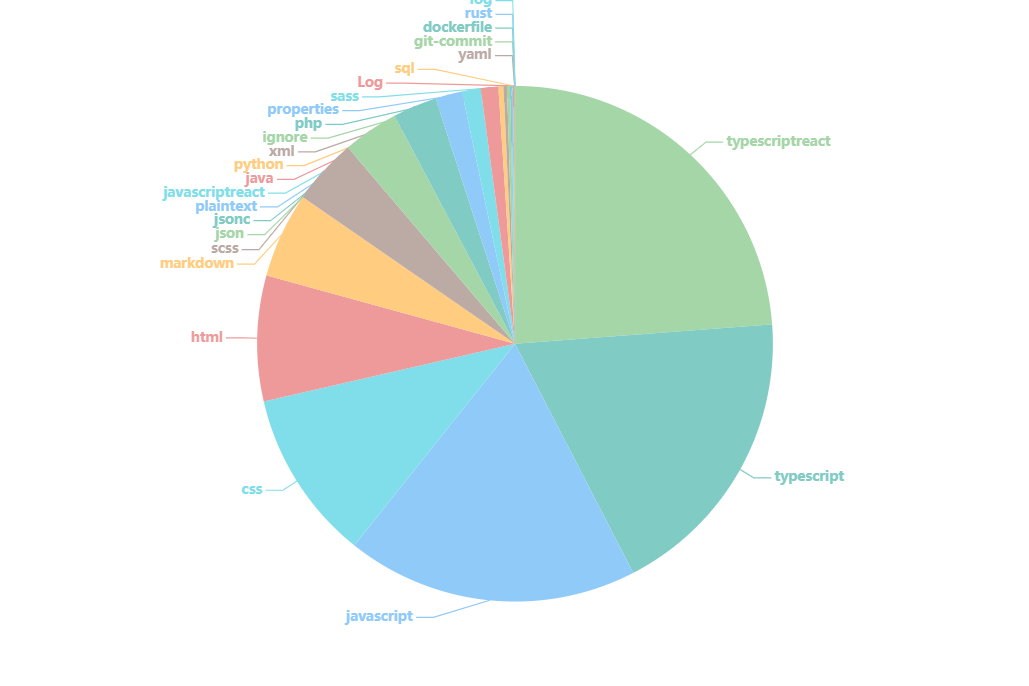
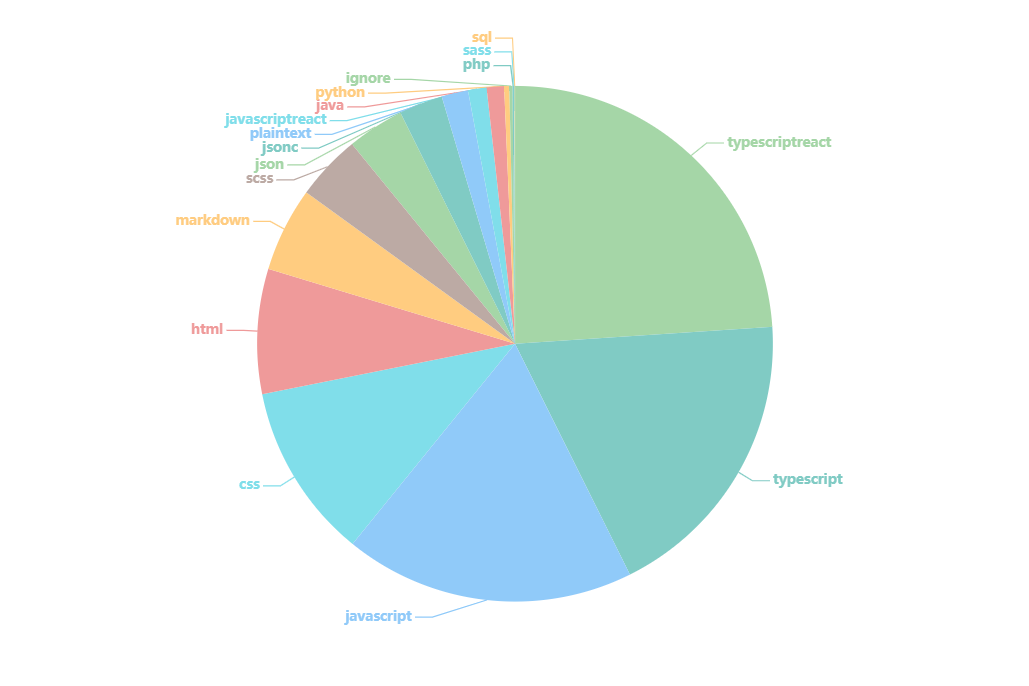
v2.4.0

diff --git a/src/components/Skills/Skills.tsx b/src/components/Skills/Skills.tsx
@@ -2,6 +2,7 @@ import React, { useState, useEffect } from 'react';
 
 import { IThemeProps, skills } from '../../material';
 import { options, showModal } from './modal-mat';
+import Python from './assets/python.png';
 import './skills.css';
 
 const Skills: React.FC<IThemeProps> = props => {
@@ -80,6 +81,7 @@ const Skills: React.FC<IThemeProps> = props => {
                   <svg id="java" onClick={() => logoClick(format(options.java.display()))} className={`${props.theme}Skills-logo`} width={logoSize} height={logoSize} xmlns="http://www.w3.org/2000/svg" viewBox="6.527 4.399 290.829 540.906"><path d="M285.104 430.945h-2.037v-1.14h5.486v1.14h-2.025v5.688h-1.424v-5.688zm10.942.297h-.032l-2.02 5.393h-.924l-2.006-5.393h-.024v5.393h-1.343v-6.828h1.976l1.86 4.835 1.854-4.835h1.969v6.828h-1.311l.001-5.393z" fill="#e76f00" /><path d="M102.681 291.324s-14.178 8.245 10.09 11.035c29.4 3.354 44.426 2.873 76.825-3.259 0 0 8.518 5.341 20.414 9.967-72.63 31.128-164.376-1.803-107.329-17.743M93.806 250.704s-15.902 11.771 8.384 14.283c31.406 3.24 56.208 3.505 99.125-4.759 0 0 5.937 6.018 15.271 9.309-87.815 25.678-185.624 2.025-122.78-18.833" fill="#5382a1" /><path d="M168.625 181.799c17.896 20.604-4.701 39.146-4.701 39.146s45.439-23.458 24.571-52.833c-19.491-27.395-34.438-41.005 46.479-87.934.001-.001-127.013 31.721-66.349 101.621" fill="#e76f00" /><path d="M264.684 321.369s10.492 8.646-11.555 15.333c-41.923 12.7-174.488 16.535-211.314.507-13.238-5.76 11.587-13.752 19.396-15.429 8.144-1.766 12.798-1.437 12.798-1.437-14.722-10.371-95.157 20.363-40.857 29.166 148.084 24.015 269.944-10.814 231.532-28.14M109.499 208.617s-67.431 16.016-23.879 21.832c18.389 2.462 55.047 1.905 89.192-.956 27.906-2.354 55.928-7.358 55.928-7.358s-9.84 4.214-16.959 9.074c-68.475 18.01-200.756 9.631-162.674-8.79 32.206-15.568 58.392-13.802 58.392-13.802M230.462 276.231c69.608-36.171 37.425-70.932 14.96-66.248-5.506 1.146-7.961 2.139-7.961 2.139s2.045-3.202 5.947-4.588c44.441-15.624 78.619 46.081-14.346 70.521 0 0 1.079-.962 1.4-1.824" fill="#5382a1" /><path d="M188.495 4.399s38.55 38.562-36.563 97.862c-60.233 47.567-13.735 74.689-.025 105.678-35.158-31.723-60.96-59.647-43.65-85.637 25.406-38.151 95.792-56.648 80.238-117.903" fill="#e76f00" /><path d="M116.339 374.246c66.815 4.277 169.417-2.373 171.846-33.987 0 0-4.67 11.984-55.219 21.503-57.027 10.731-127.364 9.479-169.081 2.601.002-.002 8.541 7.067 52.454 9.883" fill="#5382a1" /><path d="M105.389 495.049c-6.303 5.467-12.96 8.536-18.934 8.536-8.527 0-13.134-5.113-13.134-13.314 0-8.871 4.937-15.357 24.739-15.357h7.328l.001 20.135m17.392 19.623V453.93c0-15.518-8.85-25.756-30.188-25.756-12.457 0-23.369 3.076-32.238 6.999l2.56 10.752c6.983-2.563 16.022-4.949 24.894-4.949 12.292 0 17.58 4.949 17.58 15.181v7.678h-6.135c-29.865 0-43.337 11.593-43.337 28.993 0 15.018 8.878 23.554 25.594 23.554 10.745 0 18.766-4.437 26.264-10.929l1.361 9.221 13.645-.002zM180.824 514.672h-21.691l-26.106-84.96h18.944l16.198 52.199 3.601 15.699c8.195-22.698 13.992-45.726 16.891-67.898h18.427c-4.938 27.976-13.822 58.684-26.264 84.96M264.038 495.049c-6.315 5.467-12.983 8.536-18.958 8.536-8.512 0-13.131-5.113-13.131-13.314 0-8.871 4.947-15.357 24.748-15.357h7.341v20.135m17.39 19.623V453.93c0-15.518-8.871-25.756-30.186-25.756-12.465 0-23.381 3.076-32.246 6.999l2.557 10.752c6.985-2.563 16.041-4.949 24.906-4.949 12.283 0 17.579 4.949 17.579 15.181v7.678h-6.146c-29.873 0-43.34 11.593-43.34 28.993 0 15.018 8.871 23.554 25.584 23.554 10.752 0 18.77-4.437 26.28-10.929l1.366 9.221 13.646-.002zM36.847 529.099c-4.958 7.239-12.966 12.966-21.733 16.206L6.527 535.2c6.673-3.424 12.396-8.954 15.055-14.104 2.3-4.581 3.252-10.485 3.252-24.604v-96.995h18.478v95.666c-.001 18.875-1.51 26.5-6.465 33.936" fill="#e76f00" /></svg>
                   <svg id="nodejs" onClick={() => logoClick(format(options.nodejs.display()))} className={`${props.theme}Skills-logo`} width={logoSize} height={logoSize} viewBox="0 0 256 282" xmlns="http://www.w3.org/2000/svg" preserveAspectRatio="xMinYMin meet"><g fill="#8CC84B"><path d="M116.504 3.58c6.962-3.985 16.03-4.003 22.986 0 34.995 19.774 70.001 39.517 104.99 59.303 6.581 3.707 10.983 11.031 10.916 18.614v118.968c.049 7.897-4.788 15.396-11.731 19.019-34.88 19.665-69.742 39.354-104.616 59.019-7.106 4.063-16.356 3.75-23.24-.646-10.457-6.062-20.932-12.094-31.39-18.15-2.137-1.274-4.546-2.288-6.055-4.36 1.334-1.798 3.719-2.022 5.657-2.807 4.365-1.388 8.374-3.616 12.384-5.778 1.014-.694 2.252-.428 3.224.193 8.942 5.127 17.805 10.403 26.777 15.481 1.914 1.105 3.852-.362 5.488-1.274 34.228-19.345 68.498-38.617 102.72-57.968 1.268-.61 1.969-1.956 1.866-3.345.024-39.245.006-78.497.012-117.742.145-1.576-.767-3.025-2.192-3.67-34.759-19.575-69.5-39.18-104.253-58.76a3.621 3.621 0 0 0-4.094-.006C91.2 39.257 56.465 58.88 21.712 78.454c-1.42.646-2.373 2.071-2.204 3.653.006 39.245 0 78.497 0 117.748a3.329 3.329 0 0 0 1.89 3.303c9.274 5.259 18.56 10.481 27.84 15.722 5.228 2.814 11.647 4.486 17.407 2.33 5.083-1.823 8.646-7.01 8.549-12.407.048-39.016-.024-78.038.036-117.048-.127-1.732 1.516-3.163 3.2-3 4.456-.03 8.918-.06 13.374.012 1.86-.042 3.14 1.823 2.91 3.568-.018 39.263.048 78.527-.03 117.79.012 10.464-4.287 21.85-13.966 26.97-11.924 6.177-26.662 4.867-38.442-1.056-10.198-5.09-19.93-11.097-29.947-16.55C5.368 215.886.555 208.357.604 200.466V81.497c-.073-7.74 4.504-15.197 11.29-18.85C46.768 42.966 81.636 23.27 116.504 3.58z" /><path d="M146.928 85.99c15.21-.979 31.493-.58 45.18 6.913 10.597 5.742 16.472 17.793 16.659 29.566-.296 1.588-1.956 2.464-3.472 2.355-4.413-.006-8.827.06-13.24-.03-1.872.072-2.96-1.654-3.195-3.309-1.268-5.633-4.34-11.212-9.642-13.929-8.139-4.075-17.576-3.87-26.451-3.785-6.479.344-13.446.905-18.935 4.715-4.214 2.886-5.494 8.712-3.99 13.404 1.418 3.369 5.307 4.456 8.489 5.458 18.33 4.794 37.754 4.317 55.734 10.626 7.444 2.572 14.726 7.572 17.274 15.366 3.333 10.446 1.872 22.932-5.56 31.318-6.027 6.901-14.805 10.657-23.56 12.697-11.647 2.597-23.734 2.663-35.562 1.51-11.122-1.268-22.696-4.19-31.282-11.768-7.342-6.375-10.928-16.308-10.572-25.895.085-1.619 1.697-2.748 3.248-2.615 4.444-.036 8.888-.048 13.332.006 1.775-.127 3.091 1.407 3.182 3.08.82 5.367 2.837 11 7.517 14.182 9.032 5.827 20.365 5.428 30.707 5.591 8.568-.38 18.186-.495 25.178-6.158 3.689-3.23 4.782-8.634 3.785-13.283-1.08-3.925-5.186-5.754-8.712-6.95-18.095-5.724-37.736-3.647-55.656-10.12-7.275-2.571-14.31-7.432-17.105-14.906-3.9-10.578-2.113-23.662 6.098-31.765 8.006-8.06 19.563-11.164 30.551-12.275z" /></g></svg>
                   <svg id="deno" onClick={() => logoClick(format(options.deno.display()))} className={`${props.theme}Skills-logo`} width={logoSize} height={logoSize} viewBox="-.625 -.091 814.4 813.9" xmlns="http://www.w3.org/2000/svg"><g fill="#222"><path d="m374.575.209c-1.9.2-8 .9-13.5 1.4-78.2 8.2-155.2 41.3-218 93.9-11.6 9.6-38 36-47.6 47.6-52 62.1-82.4 131.8-93.6 214.3-2.5 18.3-2.5 80.1 0 98.4 11.2 82.5 41.6 152.2 93.6 214.3 9.6 11.6 36 38 47.6 47.6 62.1 52 131.8 82.4 214.3 93.6 18.3 2.5 80.1 2.5 98.4 0 82.5-11.2 152.2-41.6 214.3-93.6 11.6-9.6 38-36 47.6-47.6 52-62.1 82.4-131.8 93.6-214.3 2.5-18.3 2.5-80.1 0-98.4-11.2-82.5-41.6-152.2-93.6-214.3-9.6-11.6-36-38-47.6-47.6-61.9-51.8-132.3-82.6-213.7-93.5-8.8-1.2-21.6-1.7-45.3-1.9-18.1-.2-34.6-.1-36.5.1zm5 43.2c0 11.7.8 37.1 1.9 61.2.6 11.8 1.3 28.7 1.6 37.5 1.1 31.2 4.4 113.1 4.9 120.4l.5 7.3-4.5-.5c-2.5-.2-4.8-.8-5.2-1.1-.3-.4-1-7.3-1.4-15.4-1.8-35.6-7.7-173.7-8.3-193.9l-.6-22.2 2.8-.4c1.5-.2 4-.5 5.6-.6l2.7-.1zm95.7-2.4c.1.1.4 30.3.7 67.1.4 36.9.9 70 1.2 73.6.3 3.7.2 6.9-.3 7.1-.4.3-2.9.3-5.4 0l-4.6-.4-.7-29.1c-.4-16.1-.9-33.9-1.1-39.7-.8-17.7-1.5-77.8-.9-79.3.4-1.1 1.5-1.2 5.7-.5 2.9.6 5.3 1.1 5.4 1.2zm-231.3 33.5c.6.9 5.3 56 11.1 128.1 1.9 24.5 3.8 46.9 4.1 49.7.5 5.1.4 5.3-2.8 7.3-1.8 1.1-3.6 2-4 2-.3 0-.9-2.6-1.2-5.8-1.4-13-6.8-75.8-10.6-121.2-2.2-26.7-4.2-50.6-4.5-53.2-.5-4.4-.4-4.8 2.2-6.2 3.2-1.7 5-2 5.7-.7zm275.3 20.1c2.8 1 3.1 1.5 3.7 7.2 1 10 .7 57.8-.4 57.8-2.9 0-8.9-3.4-9.4-5.3-.3-1.2-.6-15.4-.6-31.5 0-32.5-.4-30.6 6.7-28.2zm-184.7 4.7c0 2.7.7 17.6 1.5 33.3s1.7 35.6 2.1 44.2c.7 17.4.9 16.8-5.8 17.2-3.3.1-3.3.1-3.5-4.9-.2-2.8-.7-11.5-1.3-19.5-.5-8-1.7-25.3-2.5-38.5s-1.8-26.3-2.1-29.1c-.6-5-.5-5.2 2.2-6.2 1.6-.6 4.4-1.1 6.2-1.1 3.2-.1 3.2-.1 3.2 4.6zm277.4 13.7 3.4 1.4.7 13.4c.3 7.3.5 23.1.3 35l-.3 21.8-4.2-2.1-4.2-2-.3-33.2c-.2-18.3-.1-33.8.1-34.5.4-1.5.4-1.5 4.5.2zm-182.6 13.1c.6.6 2 49.1 2.1 73.7l.1 14.8-4.7-.7c-2.7-.3-4.9-.6-5-.7-.3-.2-3.3-74.3-3.3-81.5v-7.4l5.1.6c2.9.4 5.4.9 5.7 1.2zm230.3 7.1c1.2 1.4 1.4 23.3 1.7 144.1.3 138.7.3 142.3-1.5 142.3-1.1 0-2.6-.6-3.5-1.3-1.5-1.1-1.7-13.2-2.2-131.7-.4-71.8-.9-137-1.2-144.9l-.6-14.4 2.9 2.1c1.7 1.2 3.6 2.9 4.4 3.8zm-89.7 20.5c.5.4 1 6.1 1.1 12.6.5 22.1.6 157.6.1 158-.2.2-2-.3-4-1.1l-3.6-1.5v-170.1l2.8.6c1.5.4 3.1 1 3.6 1.5zm-276 5.6c.3 2.7.8 8.8 1.1 13.8.3 4.9 1 16.1 1.6 24.8 1.2 17.6 1 18.7-4.7 18.7-3 0-3.4-.3-3.8-3.3-1-5.9-4.5-55.1-4-55.9.5-.7 5.7-2.5 8.1-2.7.6-.1 1.4 2 1.7 4.6zm-165.4 25.5c1.1 10.6 3.3 32.8 4.9 49.3 1.7 16.5 3.1 30.5 3.1 31.1 0 1.2-7.7 5-8.5 4.2-.5-.5-10.5-89-10.5-93 0-2.4 7.7-12.5 8.7-11.4.3.2 1.3 9.1 2.3 19.8zm392.1 10.5 2.9 1.7.1 21.6c.1 11.8.3 25 .3 29.3.2 9-.9 10.5-6.3 8.6l-3.1-1.1v-8.6c0-4.8-.3-18.7-.7-31l-.6-22.2h2.3c1.2 0 3.5.8 5.1 1.7zm-348.2 38.8c1.8 19.2 4.7 51.6 6.6 72l3.4 37-3.9 3.9-3.8 3.9-.7-7.9c-.4-4.4-2.4-24.8-4.5-45.4s-5.1-50.5-6.6-66.4l-2.8-28.8 3.9-3.6c3.5-3.3 3.9-3.4 4.6-1.6.4 1 2.1 17.6 3.8 36.9zm-74.9 12.1c2.2 19.7 8 72.1 13 116.4s9.7 87 10.6 95c.8 8 2.2 20.1 3 27 1.4 11.7 1.4 12.5-.2 13.7-2.4 1.8-3.4 1.6-3.4-.5 0-.9-.9-8.5-2-16.7-1.8-13.7-4.8-36.9-11.5-89-1.4-10.5-4.1-31.4-6-46.5-2-15.1-4.9-37.6-6.5-50s-4.3-33.6-6-47.3c-1.8-13.6-2.9-25.7-2.6-27 .7-2.7 6.6-12.1 7.2-11.5.2.3 2.2 16.6 4.4 36.4zm-30.6 43.1c1.5 12 4.3 33.9 6.2 48.8 1.9 14.8 4.3 33.3 5.4 41l1.9 14-2.1 1.8c-1.2 1-2.4 1.4-2.8 1s-1.2-4.4-1.8-8.8-4.3-30.1-8.3-57l-7.1-49 2.3-6.8c1.2-3.7 2.5-6.7 2.8-6.7.4 0 1.9 9.8 3.5 21.7zm549-13.1c1.4 1.4 1.6 7.6 1.6 53.5v51.9h-2.8c-6.1 0-6 1.5-6.4-55.3l-.3-51.7h3.2c1.7 0 3.9.7 4.7 1.6zm-218.9 17.9c22.6 3.4 42.3 9.7 61.8 19.7 12.6 6.5 18.6 11 32.6 24.4 20.8 19.9 33.6 37.3 45.6 61.9 17.5 35.8 24.3 67.5 32.9 152.5 3.9 38.1 9 107.2 10.1 135.5.3 8.2 1 21.7 1.6 30 1.1 17.6 2.4 15.2-13.1 22.7-21.5 10.4-42.2 17.6-69.5 24.3-33.4 8.2-55 10.8-88 10.9l-24 .1.2-11.5c0-6.3.6-21 1.2-32.5 3-55.7 2.4-126-1.5-165-2.2-22.4-6.5-49.6-8.9-55.6-.5-1.3 1.8-2.4 11.7-5.8 18.1-6.3 33.8-14.2 36.2-18.1 4.3-7.4-3.4-18-13.2-18-1.7 0-6.8 1.8-11.5 3.9-22.4 10.3-67.3 22.4-93.2 25.1-17.9 1.9-45.7.8-65-2.7-10.5-1.9-29.3-9-45-17.1-18.1-9.4-29.2-21.9-32.5-36.7-1.8-8-1.3-24 1-33 2.5-9.9 9.5-24.3 15.9-32.7 28.5-37.5 87.3-70 147.6-81.4 19.2-3.6 46.4-4 67-.9zm308.5 3.1c3.6 1.5 4 1.9 4 5.3.2 27.3-.4 89.7-.9 92.3-.1.9-5.3 1-7.5.2-1.4-.5-1.6-5.9-1.6-50 0-31.6.4-49.4 1-49.4.5 0 2.8.7 5 1.6zm43.7 54.9 3.6 1.5-.7 82.8c-.8 105.5-.9 108.6-4.7 117.7-6.2 14.9-5.9 17.9-5.3-47.5.2-32.7.7-65.8.9-73.5s.4-29.4.5-48.3c0-22.8.3-34.2 1-34.2.6 0 2.7.7 4.7 1.5zm-601.4 24.9c.6 8.1.4 8.9-2.5 15.3l-3.2 6.8-1.2-10c-1.9-16-1.9-16.7 1.9-19.1 1.7-1.2 3.5-2 3.8-1.8s.9 4.2 1.2 8.8zm-61.8 60.3c.9 8.2 7.9 62.6 11.5 89.3 5.4 41.3 5.8 47.2 3.4 44.7-.3-.3-2.6-14.2-5-30.9-15.6-107.8-15.5-107.1-14.2-107.9 2.7-1.8 3.6-.8 4.3 4.8zm72 45.8c.6 2.5 3.5 29.6 3.5 32.9 0 2.8-3.6 5.4-5.2 3.8-.5-.5-1.8-9-2.8-18.8-1.1-9.9-2.2-20.2-2.5-22.9l-.6-5 3.5 4c2 2.2 3.8 4.9 4.1 6zm80.7 37.7c1.1 1 1.8 5 2.7 15.8 1.5 19.5 1.7 18-2.4 18-4.2 0-4.1.3-5.5-17.3-1.4-17.9-1.4-17.7 1.3-17.7 1.3 0 3 .6 3.9 1.2zm79.2 1.5c.2 1 .7 7 1.1 13.3.3 6.3 1.2 20.5 2 31.5 2.8 40.4 2.9 45.5 1.2 45.5-1.9 0-2.1-1.5-4.3-30-.8-11.8-2.3-30.4-3.3-41.3-.9-10.9-1.5-20-1.2-20.2 1.1-1.2 4-.3 4.5 1.2zm-188 19.2c.6.9 4.4 32.9 9.1 76.6 1.4 13.2 2.8 25.9 3.1 28.3l.5 4.3-2.5-1.6c-1.9-1.3-2.6-2.6-2.6-4.9 0-6.3-4.3-47.8-7.6-73.2-1.9-14.4-3.4-27.1-3.4-28.3 0-2.1 2.4-2.9 3.4-1.2zm577.1 41.8-.7 41.8-2.5 3.7c-5.7 8.4-5.4 10-5.1-36.8l.2-42.9 3.7-3.8c2-2 4-3.7 4.4-3.7.3 0 .3 18.8 0 41.7zm-92.5 66.3c.5 58.1.4 62.6-1.2 64.4-1 1.1-1.9 1.8-2.2 1.5-.7-.8-1.7-127.5-.9-128.2.4-.4 1.4-.6 2.3-.5 1.3.3 1.6 7.4 2 62.8zm-326.6-39.8c.7 6.2 3.2 35.9 4.2 49.9.6 9.4.6 9.7-1.6 10.4-1.2.4-2.6.3-3-.2-.7-.7-2.9-22.9-5.6-57.1l-.7-8.2h3.1c2.9 0 3.1.2 3.6 5.2zm-78.6 35c.7.7 1.2 3.2 1.2 5.7 0 2.6 1.2 16.1 2.5 30.1 3.8 38.3 4.1 43.5 2.4 42.5-2.6-1.5-4.9-3.8-4.4-4.4.2-.4-.2-5.4-1-11.1-.7-5.8-1.6-15.2-2-21s-1.3-16.4-2.1-23.5c-1.9-17.5-1.8-19.5.4-19.5 1 0 2.3.5 3 1.2zm47.3 67.3c.3 2.2.9 10.4 1.3 18.2.7 15 .4 16.1-3.7 13-1.2-.9-2-4.7-3.2-16.1-2.1-20.6-2.2-19.8 1.7-19.4 2.9.3 3.3.7 3.9 4.3z"/><path d="m220.975 342.009c-10.4 4.5-11.2 18.6-1.4 23.6 7.1 3.6 14.3 1.9 18-4.3 7-11.4-4.4-24.6-16.6-19.3zm67.8 9.6c-9.6 5.9-9.6 20.1 0 26 9.5 5.7 21.8-1.8 21.8-13.2 0-11-12.6-18.4-21.8-12.8z"/></g></svg>
+                  <img id="python" src={Python} onClick={() => logoClick(format(options.python.display()))} className={`${props.theme}Skills-logo`} height={logoSize} width={logoSize}/>
                </div>
             </div>
             <div className={`${props.theme}Skills-smallcontainer3`}>

diff --git a/src/Index.tsx b/src/Index.tsx
@@ -9,43 +9,37 @@ import Stats from './components/Stats/Stats';
 
 // styles and material
 import './index.css';
-import { IThemeProps } from './material';
+import { nApp } from './material';
 
 
-// content
-
-const Main: React.FC<IThemeProps> = props => {
-   return (
-      <div>
-         <Greeting theme={props.theme}/>
-         <Skills theme={props.theme}/>
-         <Stats theme={props.theme}/>
-      </div>
-   );
-};
-
-// actual main component
 
 const App: React.FC = () => {
    const [theme, setTheme]: any = useState(true);
-
+   const themeConvertToString: nApp.themeConvertToString = t => t ? "Dark" : "Light";
+   
    useEffect(() => {
       let parsedTheme = localStorage.getItem("theme") || true;
       parsedTheme = parsedTheme === 'true';
       setTheme(parsedTheme);
    }, []);
-
+   
    useEffect(() => {
       localStorage.setItem("theme", theme);
    }, [theme]);
-
+   
    return (
       <div className={theme ? 'DarkApp' : 'LightApp'}>
-         <header> {/* Header, dark / light mode button  */}
+         <header>
             <button onClick={() => setTheme(!theme)} className={theme ? 'DarkButton' : 'LightButton'}><i className={theme ? "fas fa-moon" : "fas fa-sun"}></i></button>
          </header>
-         {/* content  */}
-         <Main theme={theme ? "Dark" : "Light"} />
+         <div>
+            <Greeting theme={themeConvertToString(theme)}/>
+            <Skills theme={themeConvertToString(theme)}/>
+            <Stats theme={themeConvertToString(theme)}/>
+         </div>
+         <footer>
+            {/* nothin here yet */}
+         </footer>
       </div>
    )
 };

diff --git a/src/components/Skills/modal-mat.tsx b/src/components/Skills/modal-mat.tsx
@@ -18,6 +18,7 @@ interface IObj {
    d3: ILang;
    markdown: ILang;
    deno: ILang;
+   python: ILang;
 }
 
 export const showModal = (b: boolean, cur: any) => b && cur;
@@ -285,4 +286,18 @@ export const options: IObj = {
          </>
       )
    },
+   python: {
+      title: "Python",
+      overall: "Overall: 6 / 10",
+      display: () => (
+         <>
+            <p className="Modal-lang-title">{options.python.title}</p>
+            <p className="Modal-lang-overall">{options.python.overall}</p>
+            <br />
+            <div className="Modal-lang-description">
+               <p className="Modal-lang-description">No description (yet)</p>
+            </div>
+         </>
+      )
+   }
 }

diff --git a/src/components/Stats/stats.css b/src/components/Stats/stats.css
@@ -23,6 +23,10 @@
    text-decoration: underline 2px var(--main-theme);
    margin-bottom: 100px;
 }
+#LightStats-precise-button:hover {
+   background-color: rgb(236, 239, 241);
+   cursor: pointer;
+}
 
 /* dark  */
 
@@ -48,4 +52,8 @@
    box-shadow: 5px 5px 7px 2px rgba(0, 0, 0, 0.41);
    text-decoration: underline 2px var(--main-theme);
    margin-bottom: 100px;
+}
+#DarkStats-precise-button:hover {
+   background-color: rgb(236, 239, 241);
+   cursor: pointer;
 }

diff --git a/src/material.ts b/src/material.ts
@@ -1,6 +1,8 @@
 export interface IThemeProps { theme: "Light" | "Dark"; }
 
-export namespace main {}
+export namespace nApp {
+   export type themeConvertToString = (t: boolean) => "Dark" | "Light";
+}
 export namespace skills {
    export namespace types {
       export type format = (jsx: JSX.Element) => JSX.Element; // format JSX according to clicked button

diff --git a/src/components/Stats/Stats.tsx b/src/components/Stats/Stats.tsx
@@ -1,4 +1,4 @@
-import React, { useState } from "react";
+import React, { useEffect, useState } from "react";
 
 import { IThemeProps } from '../../material';
 import './stats.css';
